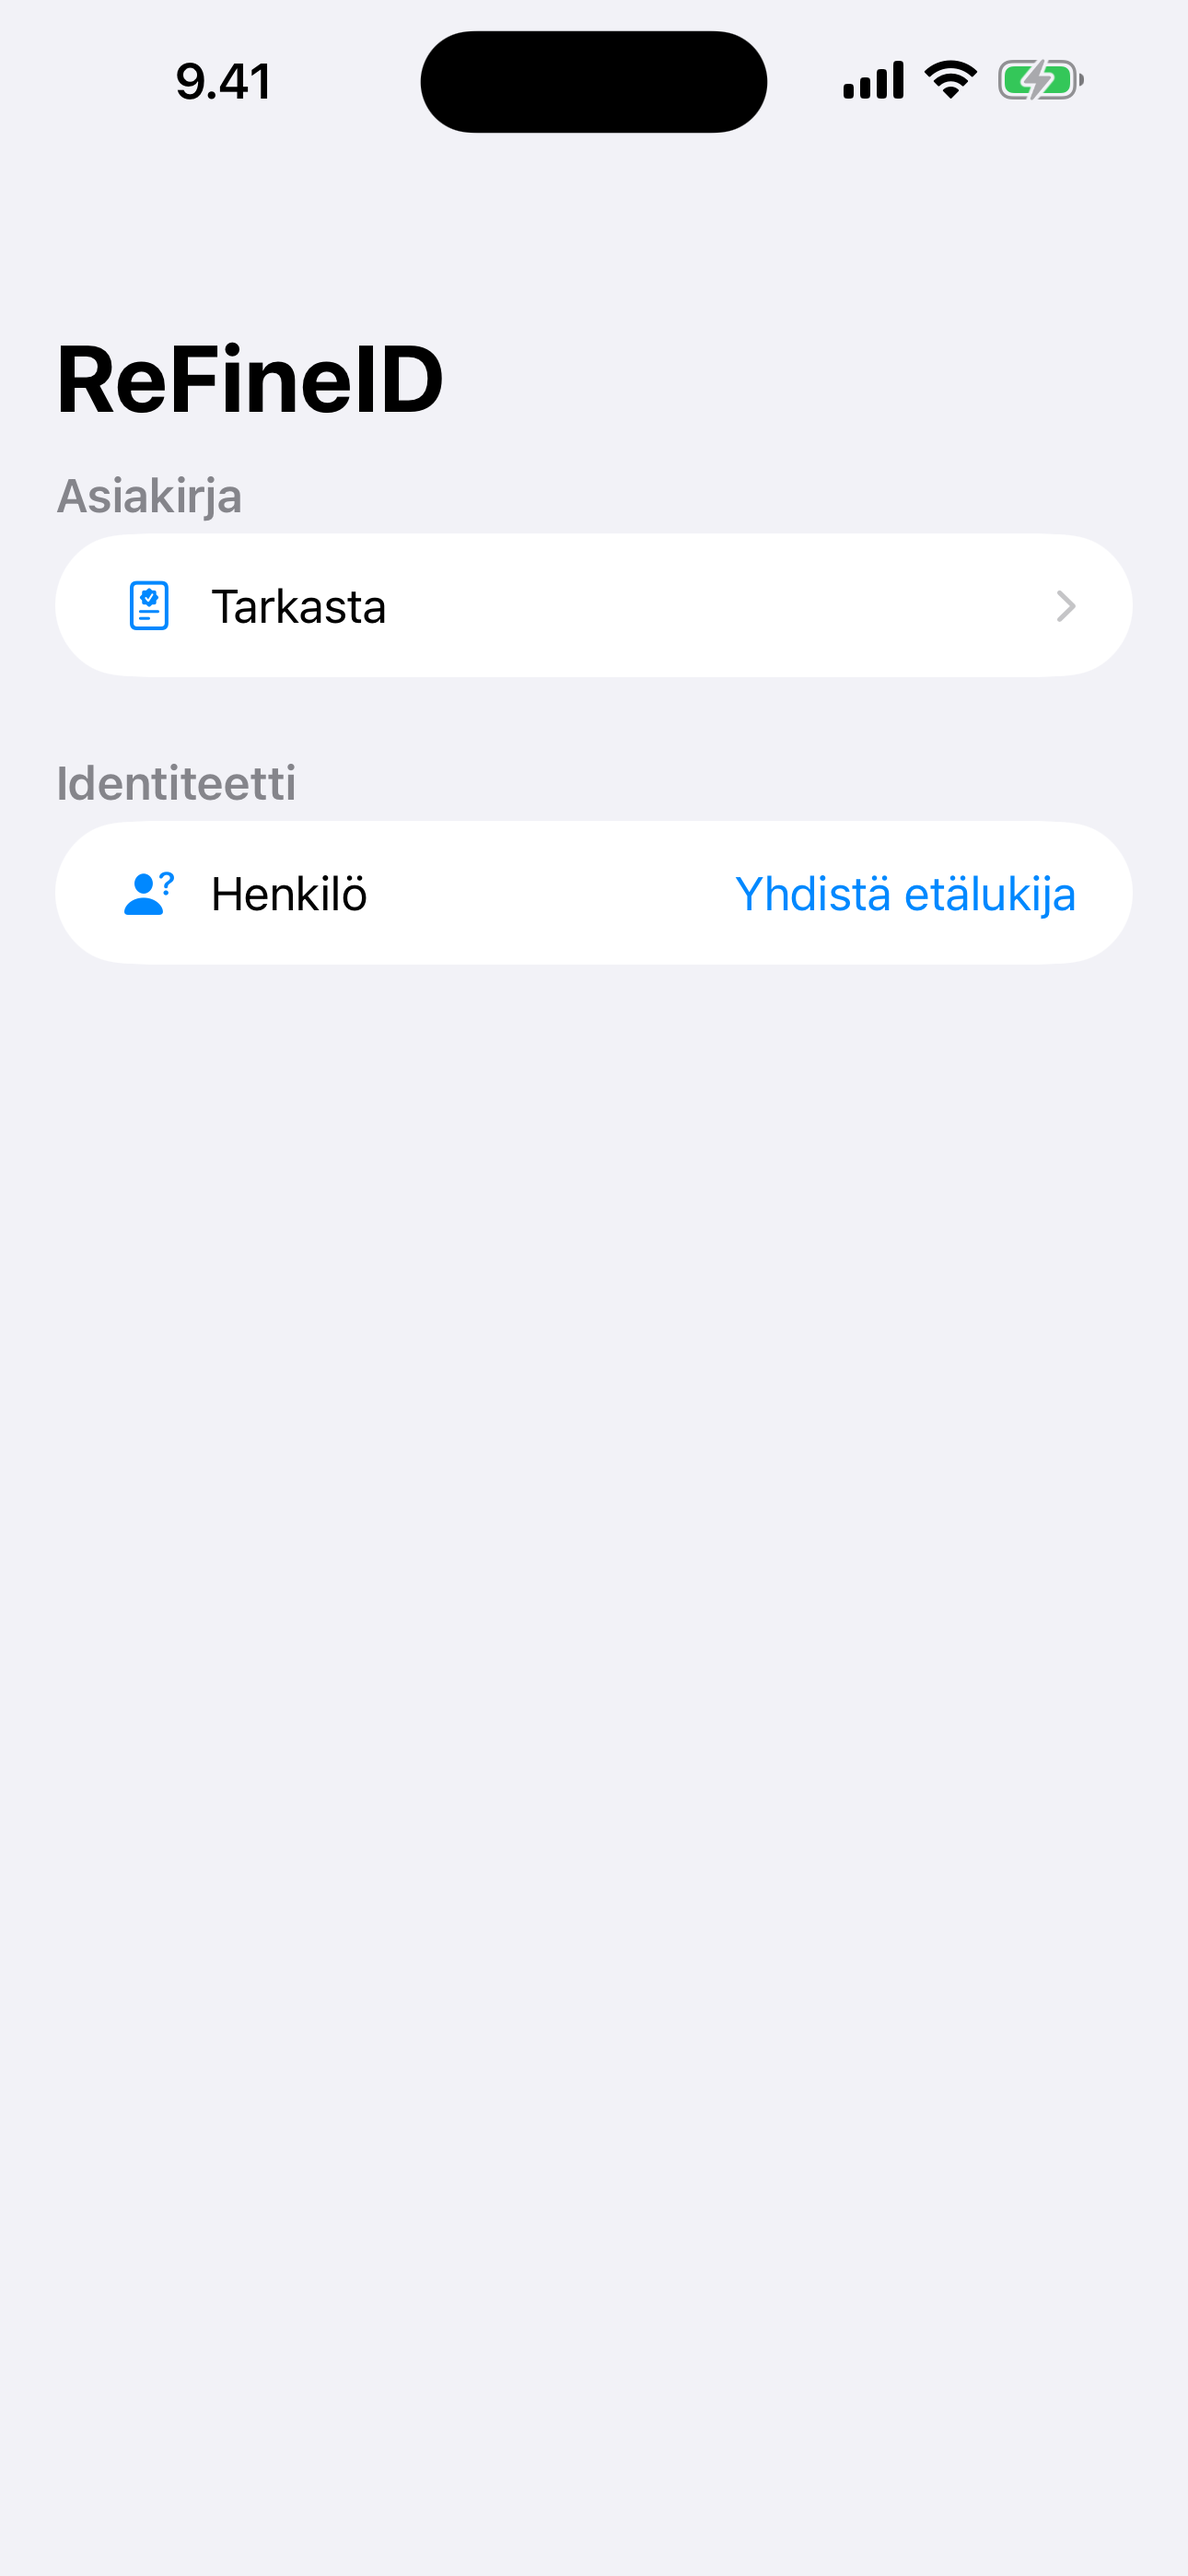
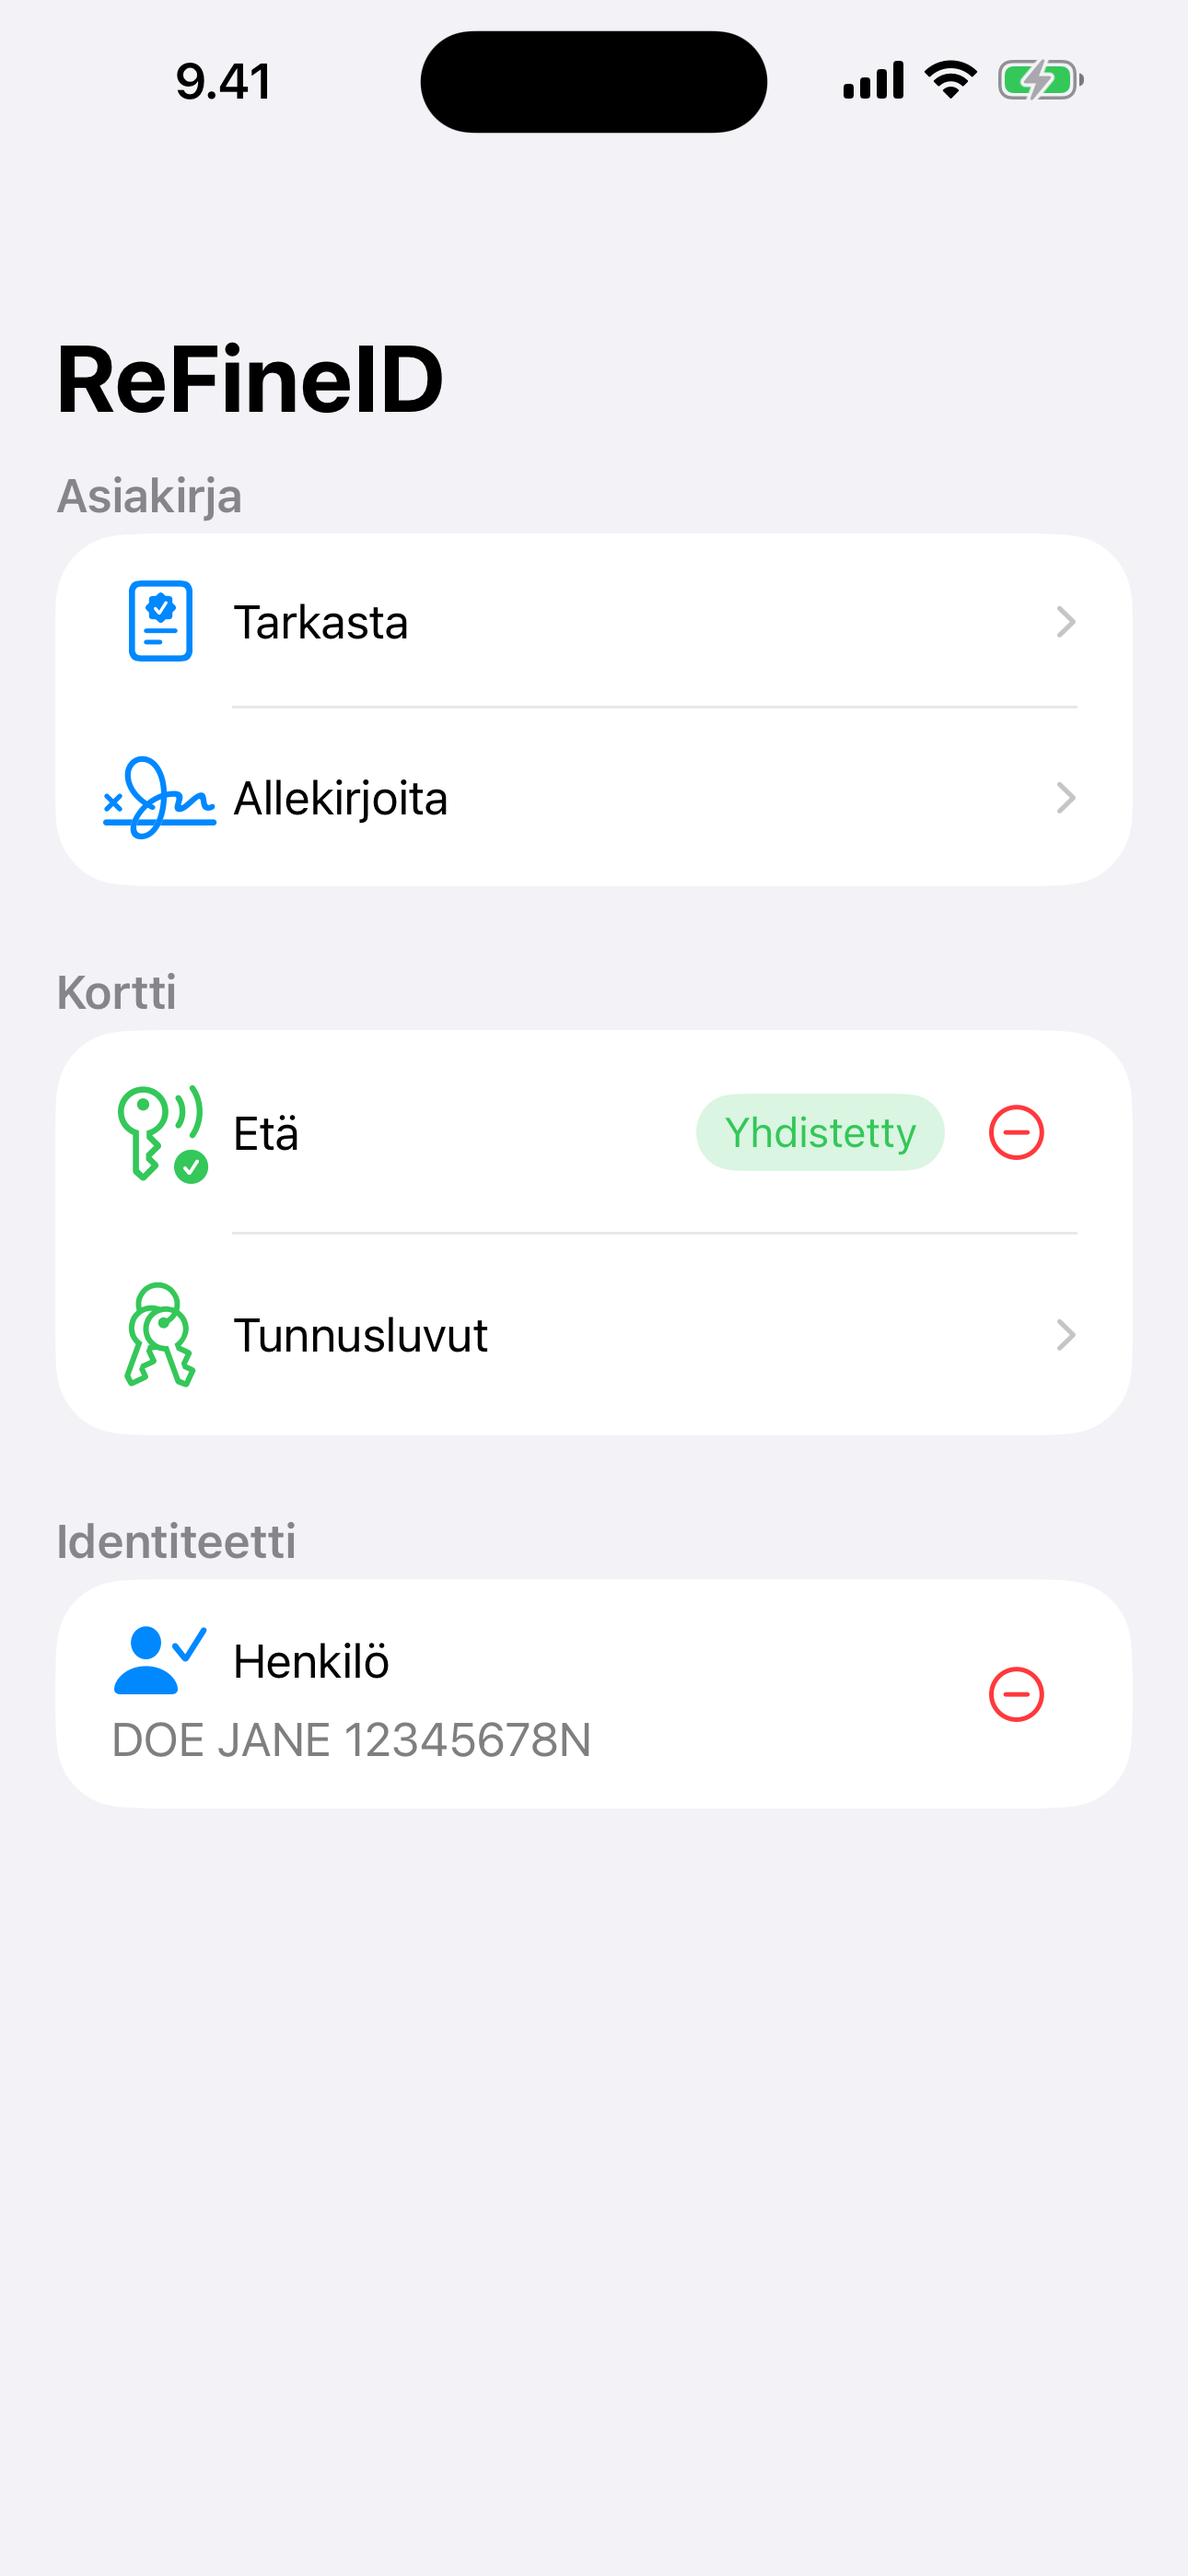
Support clean App Store screenshot mode for iOS
Hide demo overlays and diagnostics footer when capturing App Store
screenshots. Add mock remote connection flag to show connected remote
card state with synthetic identity in all supported locales.

diff --git a/Sources/App/CardSetupFooter.swift b/Sources/App/CardSetupFooter.swift
@@ -52,19 +52,21 @@ internal struct CardSetupFooter: View {
   /// appearance without relying on colour as its only signal.
   @ViewBuilder private var demonstration: some View {
     #if os(iOS)
-      Text("DEMO MODE")
-        .font(.headline)
-        .foregroundStyle(.white)
-        .accessibilityIdentifier("demoModeNotice")
-        .padding(.vertical, Self.verticalPadding)
-        .frame(maxWidth: .infinity)
-        .background(
-          Color(
-            red: Self.demoBackgroundRedComponent,
-            green: Self.demoBackgroundGreenComponent,
-            blue: Self.demoBackgroundBlueComponent
-          ),
-          ignoresSafeAreaEdges: .bottom)
+      if !ProcessInfo.processInfo.arguments.contains("--hide-diagnostics") {
+        Text("DEMO MODE")
+          .font(.headline)
+          .foregroundStyle(.white)
+          .accessibilityIdentifier("demoModeNotice")
+          .padding(.vertical, Self.verticalPadding)
+          .frame(maxWidth: .infinity)
+          .background(
+            Color(
+              red: Self.demoBackgroundRedComponent,
+              green: Self.demoBackgroundGreenComponent,
+              blue: Self.demoBackgroundBlueComponent
+            ),
+            ignoresSafeAreaEdges: .bottom)
+      }
     #endif
   }
 

diff --git a/Sources/App/ReFineIDApp.swift b/Sources/App/ReFineIDApp.swift
@@ -128,7 +128,9 @@ internal struct ReFineIDApp: App {
     #else
       ZStack(alignment: .bottomTrailing) {
         ReaderIdentityRootView()
-        if DemoMode.shared.isActive {
+        if DemoMode.shared.isActive,
+          !ProcessInfo.processInfo.arguments.contains("--hide-diagnostics")
+        {
           VirtualIDCardOverlay {
             DemoMode.shared.setEditorPresented(true)
             showsVirtualCardEditor = true

diff --git a/Sources/App/RappPairingModel.swift b/Sources/App/RappPairingModel.swift
@@ -101,7 +101,12 @@
     }
 
     internal var hasActivePairs: Bool {
-      !pairs.isEmpty
+      #if DEBUG
+        if ProcessInfo.processInfo.arguments.contains("--mock-remote-connected") {
+          return true
+        }
+      #endif
+      return !pairs.isEmpty
     }
 
     internal init(vault: RappDeviceVault = RappDeviceVault()) {
